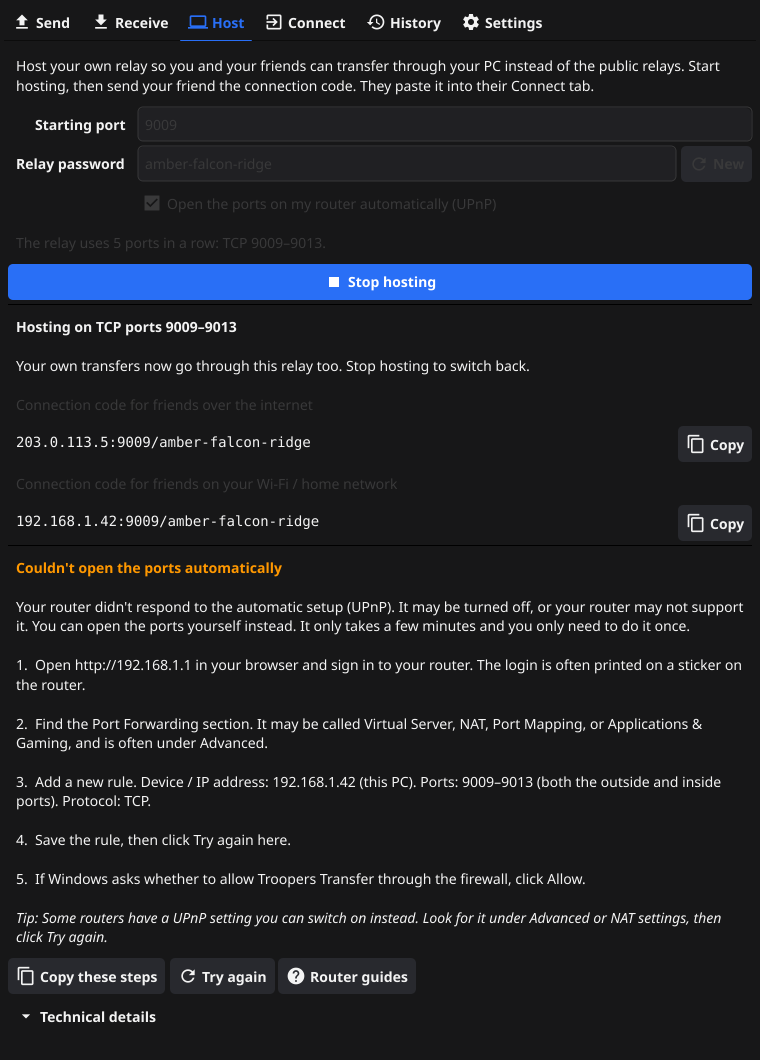
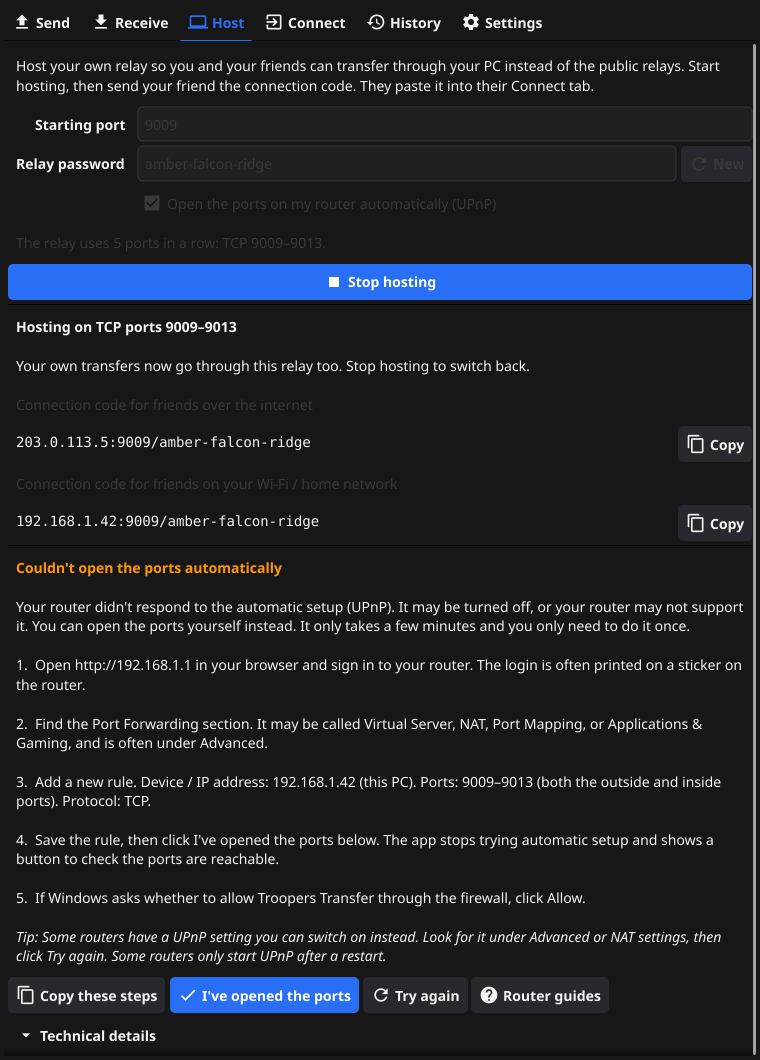
README: document 1.1.1-1.1.3 router discovery and manual port forwarding
- What's new: direct and adapter-pinned UPnP discovery, the "I've opened
  the ports" and "Check my ports online" buttons, richer technical details.
- Host tab: what each button under a problem does; the manual-mode result.
- Manual forwarding: finish with "I've opened the ports", check with
  canyouseeme.org and a friend's Test connection; ARRIS gateway example.
- Troubleshooting: "UPnP enabled but no answer" and "forwarded but the
  yellow heading is still there".
- How relay hosting works: the two parallel discovery paths and why
  unicast to the gateway matters on Windows.
- Tests: the fake-gateway tests.
- Regenerated the troubleshooting screenshot; version defaults 1.1.3.

Claude-Session: https://claude.ai/code/session_01D2Ppjtmx2YwtR62N5zHski

Changed region(s): [[0.0, 0.7783, 0.9382, 0.9962], [0.9684, 0.0623, 0.9987, 0.9962], [0.6355, 0.934, 0.7868, 0.9651]]

diff --git a/README.md b/README.md
@@ -81,6 +81,23 @@ plain-English, step-by-step help when your router won't cooperate.
 - **Linux CI fixed.** The Linux build now installs the Wayland headers that
   GLFW 3.4 needs.
 
+**1.1.1 – 1.1.3**
+
+- **Finds more routers.** As well as the usual UPnP search, the app now asks
+  your router directly at its own address, and sends its multicast search
+  through the network adapter that actually reaches the router. On Windows PCs
+  with WSL, Hyper-V or a VPN, the usual search often went out through a
+  virtual adapter and never reached the router. Searches also run in parallel,
+  so a router that answers is found in a moment instead of timing out.
+- **Better help when you forward ports by hand.** When the router doesn't
+  answer UPnP, the steps now end with **I've opened the ports**. It switches
+  off automatic setup and restarts hosting. **Check my ports online** then
+  opens a port checker so you can confirm friends can reach you.
+- **More useful technical details.** When discovery fails, they say how many
+  replies came back from the router directly and by multicast, and which
+  devices answered.
+- **Ports freed instantly.** Stopping the relay closes its ports right away.
+
 ## Features
 
 - **Drag and drop sending.** Drop files or folders on the window (or browse),
@@ -228,16 +245,19 @@ and your transfers never touch anyone else's server.
    |---|---|
    | **Starting port** | The relay uses **five TCP ports in a row**: a control port plus four for the data. The default 9009 means 9009–9013, the same as croc's own relay. Change it only if those ports are taken. |
    | **Relay password** | Three random words, generated for you. Anyone with the connection code can use your relay, so the password stops strangers who scan for open relays. Click **New** to make a fresh one; old codes then stop working. |
-   | **Open the ports on my router automatically (UPnP)** | Asks your router to forward the five ports to this PC. Leave it ticked unless you've already forwarded them by hand. |
+   | **Open the ports on my router automatically (UPnP)** | Asks your router to forward the five ports to this PC. Leave it ticked unless you've already forwarded them by hand, or your router doesn't support UPnP. |
 
 3. Click **Start hosting**. The first time, Windows asks whether to allow
    Troopers Transfer through the firewall. Click **Allow**. If your network
    is set to *Public* in Windows, tick that box too, or friends won't get
    through.
-4. Within about 20 seconds the tab shows one of the following:
+4. Within a few seconds the tab shows one of the following:
    - A **green line**, *"Ports opened automatically (UPnP)"*. You're done.
    - A **yellow heading** that explains what went wrong, with steps to fix
      it. See [below](#when-automatic-setup-fails).
+   - With automatic opening unticked, your codes and a
+     **Check my ports online** button. See
+     [Opening the ports by hand](#opening-the-ports-by-hand).
 
 **Sharing**
 
@@ -272,17 +292,21 @@ leases and renews them while it runs.
 #### When automatic setup fails
 
 The app checks your network as well as trying to open the ports, so it can
-tell you the real cause instead of just "it didn't work". Every message has
-**Copy these steps** (puts the instructions on the clipboard) and
-**Try again**. Where forwarding by hand would help, there's also
-**Router guides**, which opens [portforward.com](https://portforward.com/router.htm)
-for pages specific to your router model. **Technical details** shows the raw
-error.
+tell you the real cause instead of just "it didn't work". The buttons under
+each message:
+
+| Button | What it does |
+|---|---|
+| **Copy these steps** | Puts the instructions on the clipboard. |
+| **I've opened the ports** | Shown when forwarding by hand would fix it. Click it after you've added the rule in your router. It switches off automatic setup and restarts hosting, because a router that doesn't answer UPnP won't start answering just because you forwarded the ports. |
+| **Try again** | Repeats the automatic setup and network checks, for example after switching UPnP on or restarting the router. |
+| **Router guides** | Opens [portforward.com](https://portforward.com/router.htm) for pages specific to your router model. |
+| **Technical details** | The raw error, including how many replies came back from your router directly and by multicast, and which devices answered. |
 
 | Heading you'll see | What's going on | What to do |
 |---|---|---|
-| **Couldn't open the ports automatically** | Your router didn't answer the automatic setup. UPnP is switched off, or the router doesn't support it. | Switch UPnP on in your router and click **Try again**, or [open the ports by hand](#opening-the-ports-by-hand). |
-| **Your router wouldn't open the ports** | The router answered but said no. Some only allow automatic setup for certain devices or ports. | [Open the ports by hand](#opening-the-ports-by-hand). |
+| **Couldn't open the ports automatically** | Your router didn't answer the automatic setup. UPnP is switched off, the router doesn't support it, or the setting is on but the service isn't running. That's common on ISP gateways until they're restarted. | Switch UPnP on (and click **Save** in the router), restart the router, then click **Try again**. Or [open the ports by hand](#opening-the-ports-by-hand) and click **I've opened the ports**. |
+| **Your router wouldn't open the ports** | The router answered but said no. Some only allow automatic setup for certain devices or ports. | [Open the ports by hand](#opening-the-ports-by-hand) and click **I've opened the ports**. |
 | **Another device is already using these ports** | Your router already forwards one of these ports to a different computer or console. | Change **Starting port** (try 9109) and start again, or delete the old rule in your router. |
 | **Hosting won't work on this connection** | Your provider shares one public address between many customers (*carrier-grade NAT*). Nobody outside can reach your PC, and **port forwarding can't fix this**. Common on mobile, satellite and some cable or fibre plans. | Let a friend host instead, or use the public relays. Some providers will give you your own public IP if you ask. Friends on your Wi-Fi can still use the local code. |
 | **Your router is behind another router** | Your router is plugged into a second router, often the provider's modem, so the ports would have to be opened on both. | Put the provider's modem in *bridge mode*, or forward the ports on it to your router. The steps name the device's likely address. |
@@ -321,17 +345,33 @@ your network; here's the long version.
 
    If your router only takes one port per rule, add five rules: 9009, 9010,
    9011, 9012 and 9013.
-5. **Save**, then click **Try again** in the Host tab.
+5. **Save**, then click **I've opened the ports** in the Host tab. Or, if
+   you're not hosting yet, untick **Open the ports on my router
+   automatically** and click **Start hosting**. Either way the app stops
+   asking the router for UPnP and just shows your connection codes.
 6. **Keep your PC's address the same.** Routers sometimes hand out a new
    address after a restart, which breaks the rule. Look for *DHCP
    reservation*, *Address reservation* or *Static lease* in your router and
    reserve the current address for this PC.
-7. **Ask your friend to test it.** They paste your code into **Connect** and
-   click **Test connection**. Testing from your own PC isn't reliable,
-   because many routers can't loop a connection back to themselves.
+7. **Check it works**, while you're hosting:
+   - Click **Check my ports online** in the Host tab (it opens
+     [canyouseeme.org](https://canyouseeme.org)), enter your starting port
+     (e.g. `9009`) and click **Check Port**. **Success** means the internet
+     can reach your relay. **Error** means the rule isn't working yet, or your
+     provider uses carrier-grade NAT (see the table above).
+   - For the full check, ask a friend to paste your code into **Connect** and
+     click **Test connection**. That checks the password and all five ports,
+     not just the first. Don't test from your own PC: many routers can't loop
+     a connection back to themselves.
 
-If you've forwarded the ports yourself, you can untick **Open the ports on my
-router automatically** so the app doesn't try UPnP.
+> [!TIP]
+> **Example: an ARRIS gateway.** On many ISP-supplied ARRIS gateways the
+> setting is under **Advanced → Port Forwarding → Add**. Choose service type
+> **TCP**, set **Server IPv4 Address** to your PC's address and
+> **Start/End Port** to e.g. `9009`/`9013`. UPnP lives under
+> **Advanced → Device Discovery**, but on some ISP firmware it doesn't answer
+> even when enabled, so forwarding by hand is the reliable option. The
+> **Zero Config** setting there is unrelated; leave it off.
 
 ### Connecting to a friend's relay
 
@@ -442,7 +482,8 @@ Example `TroopersTransfer.json`:
   while starting or rechecking a hosted relay, it asks your router to open
   ports (UPnP/NAT-PMP, on your local network only) and looks up your public IP
   address from `api.ipify.org`, `ipv4.icanhazip.com` or `ifconfig.me`. Nothing
-  else is sent.
+  else is sent. **Check my ports online** and **Router guides** just open a
+  page in your browser when you click them.
 - **Hosting:** a hosted relay only forwards encrypted data. It can't read your
   friends' files, and they can't read yours. The relay password keeps strangers
   from using it. Router ports are open only while you're hosting, use one-hour
@@ -524,6 +565,8 @@ and one on a private relay will never find each other.
 | Symptom | What to do |
 |---|---|
 | The Host tab shows a yellow heading | Follow the steps under it. The table in [When automatic setup fails](#when-automatic-setup-fails) explains each one. |
+| UPnP is enabled in the router, but the app says it didn't answer | Make sure you clicked **Save** in the router, then restart the router. Some ISP firmware never answers UPnP even when it says it's on. [Forward the ports by hand](#opening-the-ports-by-hand) and click **I've opened the ports**. |
+| You forwarded the ports, but the yellow heading is still there | Click **I've opened the ports**, or untick **Open the ports on my router automatically** and start hosting again. The heading is about UPnP, not about your rule. Check the rule with **Check my ports online**. |
 | "Ports opened automatically" but your friend gets *Couldn't reach …* | Windows Firewall is probably blocking the app. Open *Windows Security → Firewall & network protection → Allow an app through firewall* and tick **Private** and **Public** for Troopers Transfer. Some antivirus suites have their own firewall too. |
 | Your friend gets *Reached the relay, but not all of its ports* | Forward all five ports, not just the first. |
 | It worked yesterday but not today | Your public IP may have changed. Send your friend the new code from the Host tab. If you forwarded the ports by hand, check your PC kept the same local IP (set up a DHCP reservation). |
@@ -550,7 +593,7 @@ winget install BrechtSanders.WinLibs.POSIX.UCRT   # MinGW-w64 gcc
 Open a new terminal so `go` and `gcc` are on `PATH`, then:
 
 ```powershell
-.\build.ps1 -Version 1.1.0
+.\build.ps1 -Version 1.1.3
 ```
 
 This produces `dist\TroopersTransfer.exe`. The script:
@@ -679,9 +722,26 @@ The Host and Connect tabs are built on the `relay/` package.
   `croc relay`, so any croc client, including the croc CLI, can use it.
 - **Your own transfers** go to `127.0.0.1:<port>` while you host, so they
   don't depend on your router supporting "hairpin" connections back to itself.
-- **Opening the ports:** the app discovers your router with UPnP (trying the
-  WANIPConnection2, WANIPConnection1 and WANPPPConnection1 services) and adds
-  one TCP mapping per port with a one-hour lease, renewed every 20 minutes. If
+- **Finding the router:** two UPnP searches run side by side, and whichever
+  finds the router first wins:
+  1. the UPnP library's multicast search for the WANIPConnection2,
+     WANIPConnection1 and WANPPPConnection1 services, with all three in
+     parallel;
+  2. the app's own SSDP search (`relay/ssdp.go`). It sends `M-SEARCH` straight
+     to the default gateway on UDP 1900, and also to the multicast group with
+     the outgoing adapter pinned to the one that reaches the router
+     (`IP_MULTICAST_IF`). It asks for the gateway device types and
+     `upnp:rootdevice` / `ssdp:all` as well as the services, because some ISP
+     gateways only answer generic searches.
+
+  Each device description is checked as soon as it's heard, and a
+  port-mapping service on the router's own address is used immediately. This
+  matters on Windows: a plain multicast search leaves through the OS's
+  default multicast adapter, which on PCs with WSL, Hyper-V or a VPN is often
+  virtual, and Windows Firewall can drop replies to multicast. A unicast
+  request to the router avoids both.
+- **Opening the ports:** the app adds one TCP mapping per port with a
+  one-hour lease, renewed every 20 minutes. If
   no UPnP router answers, it tries NAT-PMP. If one port fails, the ones
   already added are removed, so you never end up with half a set. Routers that
   only accept permanent leases (UPnP error 725) are handled, and error 718 is
@@ -741,10 +801,16 @@ go test ./...
   filled-in manual steps, port-in-use detection, the connection test (right
   password, wrong password, relay stopped), and a **real file transfer through
   a hosted relay** with LAN discovery off, so the relay has to carry it.
+- `relay/fakerouter_test.go`: a fake UPnP gateway that, like some ISP
+  routers, never answers multicast and only answers a direct search for
+  `InternetGatewayDevice:1`. It checks the router is found, all five ports
+  are forwarded to this PC, a port clash (error 718) rolls back the ports
+  already opened, mappings are removed on close, and the technical details
+  report what discovery saw when nothing answers.
 - `ui/ui_test.go`: builds the real window with Fyne's software renderer and
-  walks every screen. This includes starting a real relay from the Host tab on
-  a machine with no UPnP router (the manual guide must appear) and connecting
-  to it from the Connect tab. Set `TTS_SCREENSHOTS=<absolute dir>` to save
+  walks every screen. This includes starting a real relay from the Host tab
+  and connecting to it from the Connect tab (right and wrong passwords), plus
+  fixed demo states for the README screenshots. Set `TTS_SCREENSHOTS=<absolute dir>` to save
   PNGs; that's how the images in this README were made.
 
 ## Continuous integration and releases
@@ -762,8 +828,8 @@ Binaries are uploaded as workflow artifacts. To publish a release, push a
 version tag:
 
 ```bash
-git tag v1.1.0
-git push origin v1.1.0
+git tag v1.1.3
+git push origin v1.1.3
 ```
 
 The workflow stamps the version into each binary and attaches
